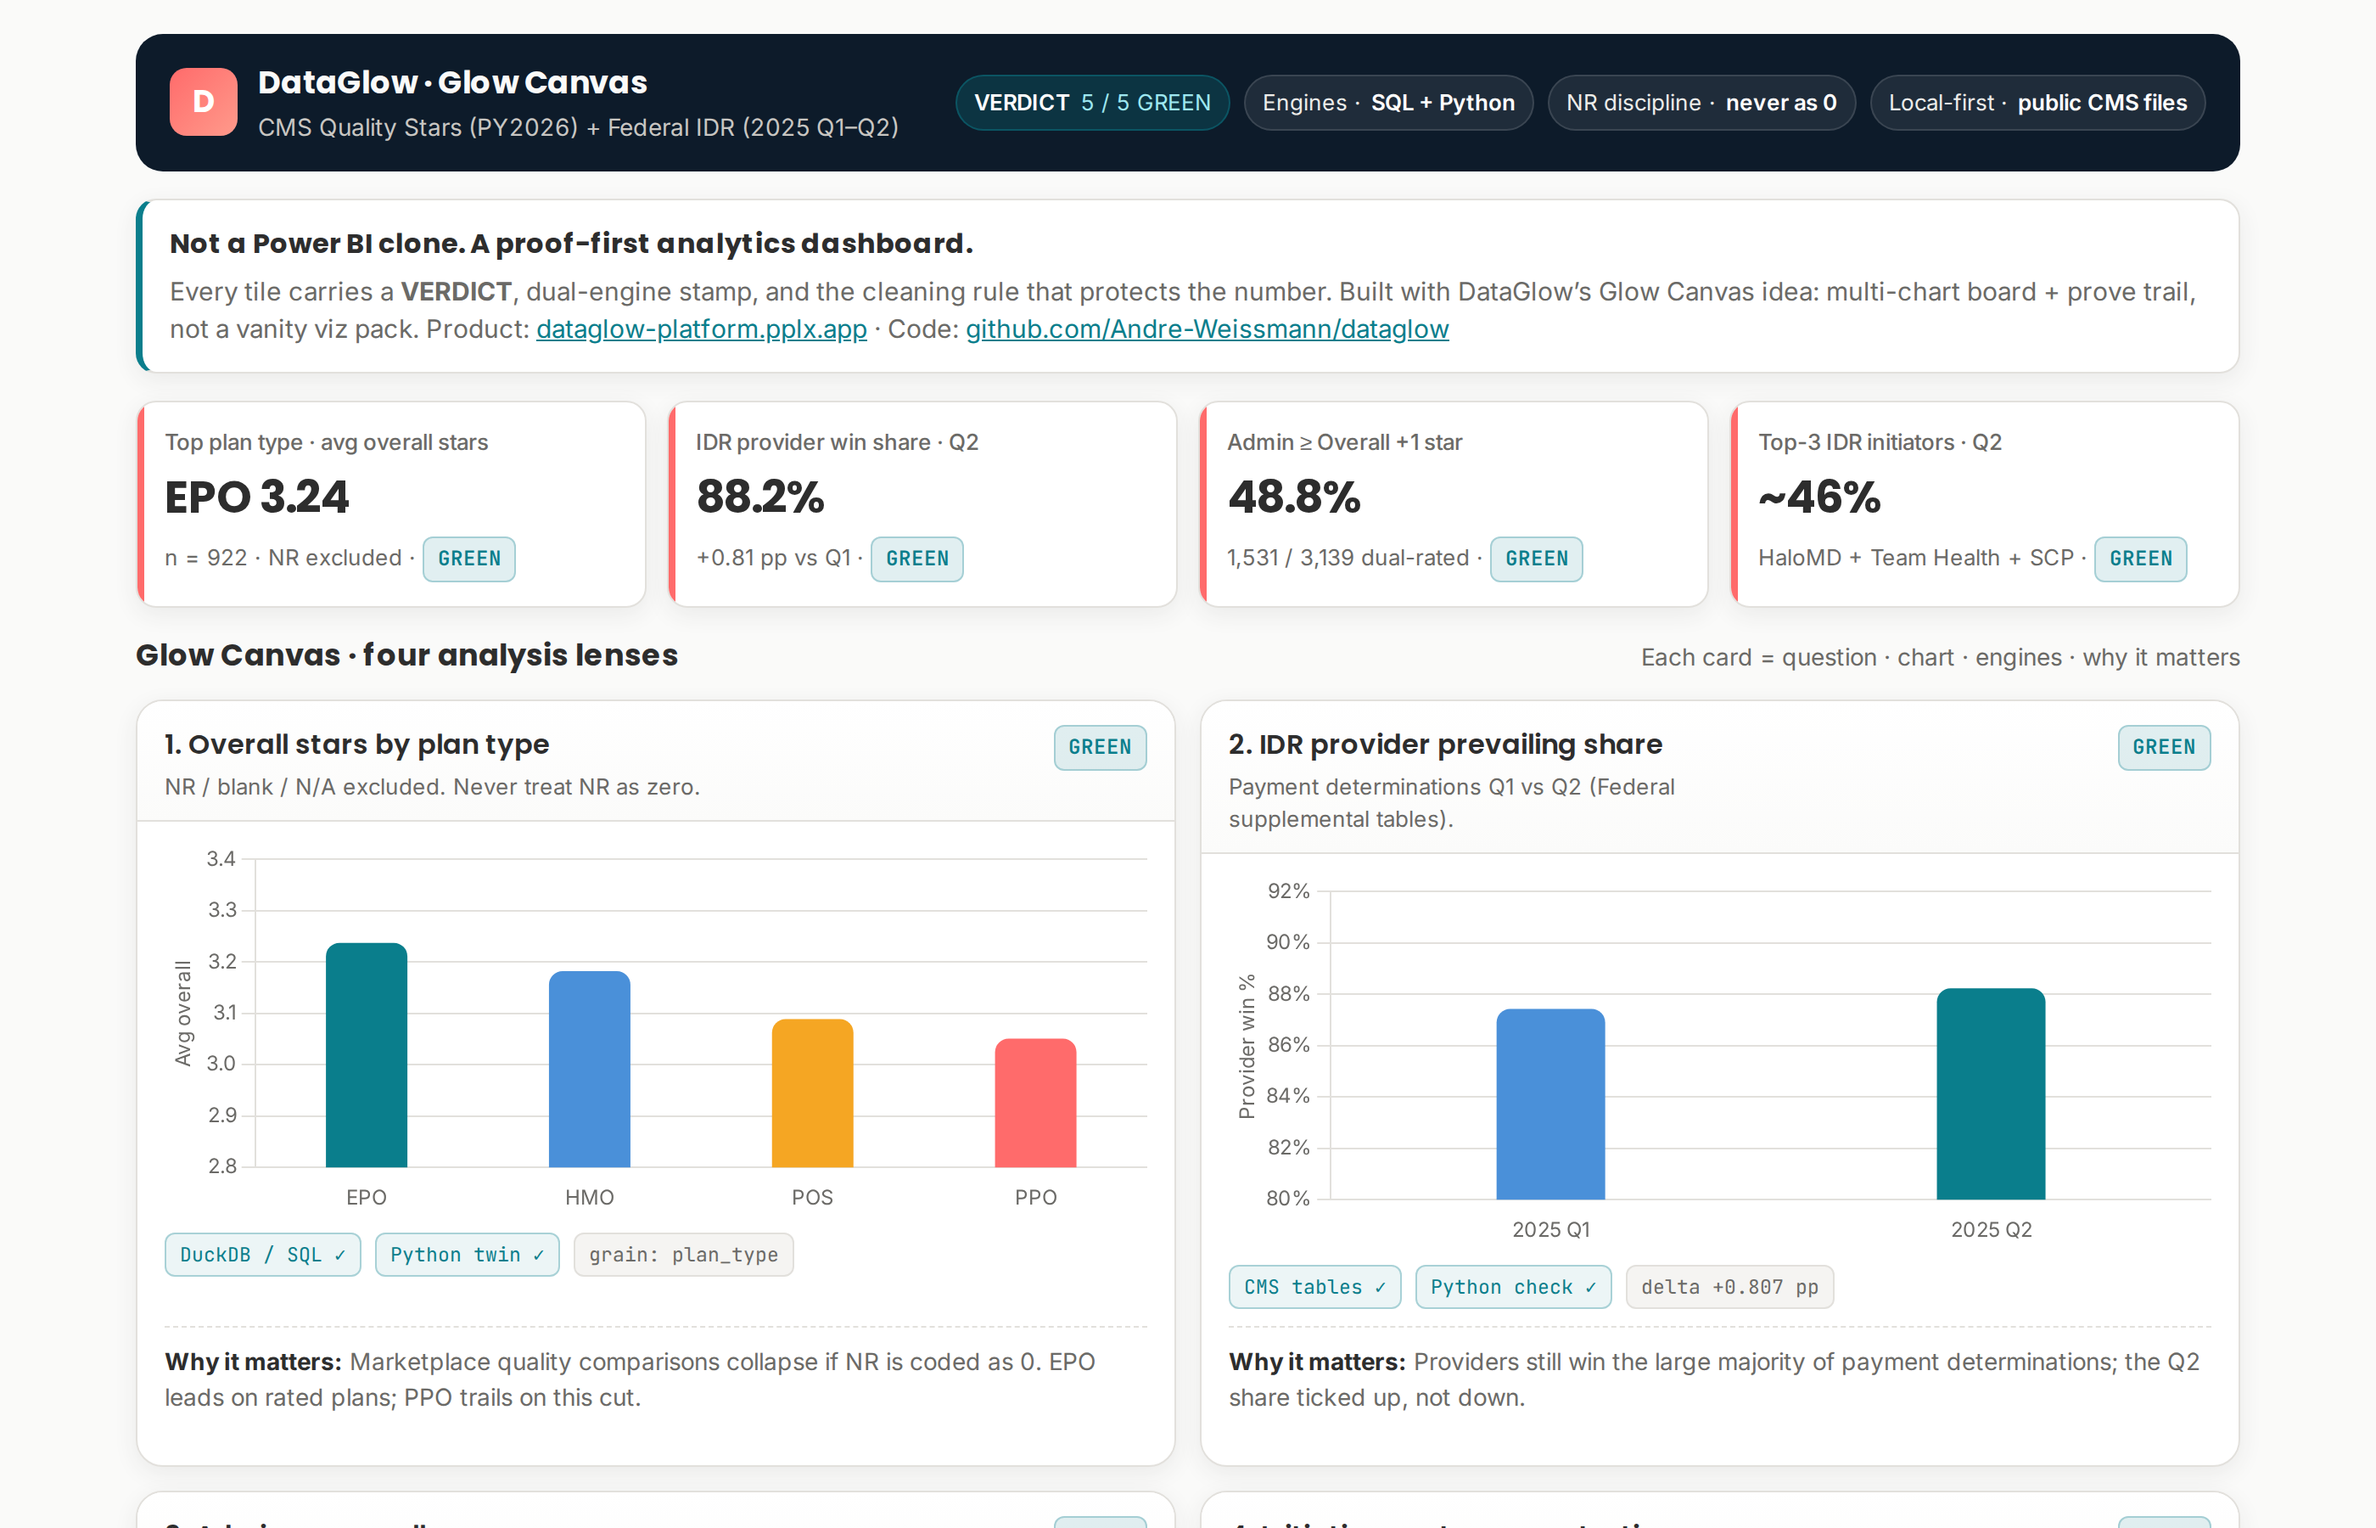
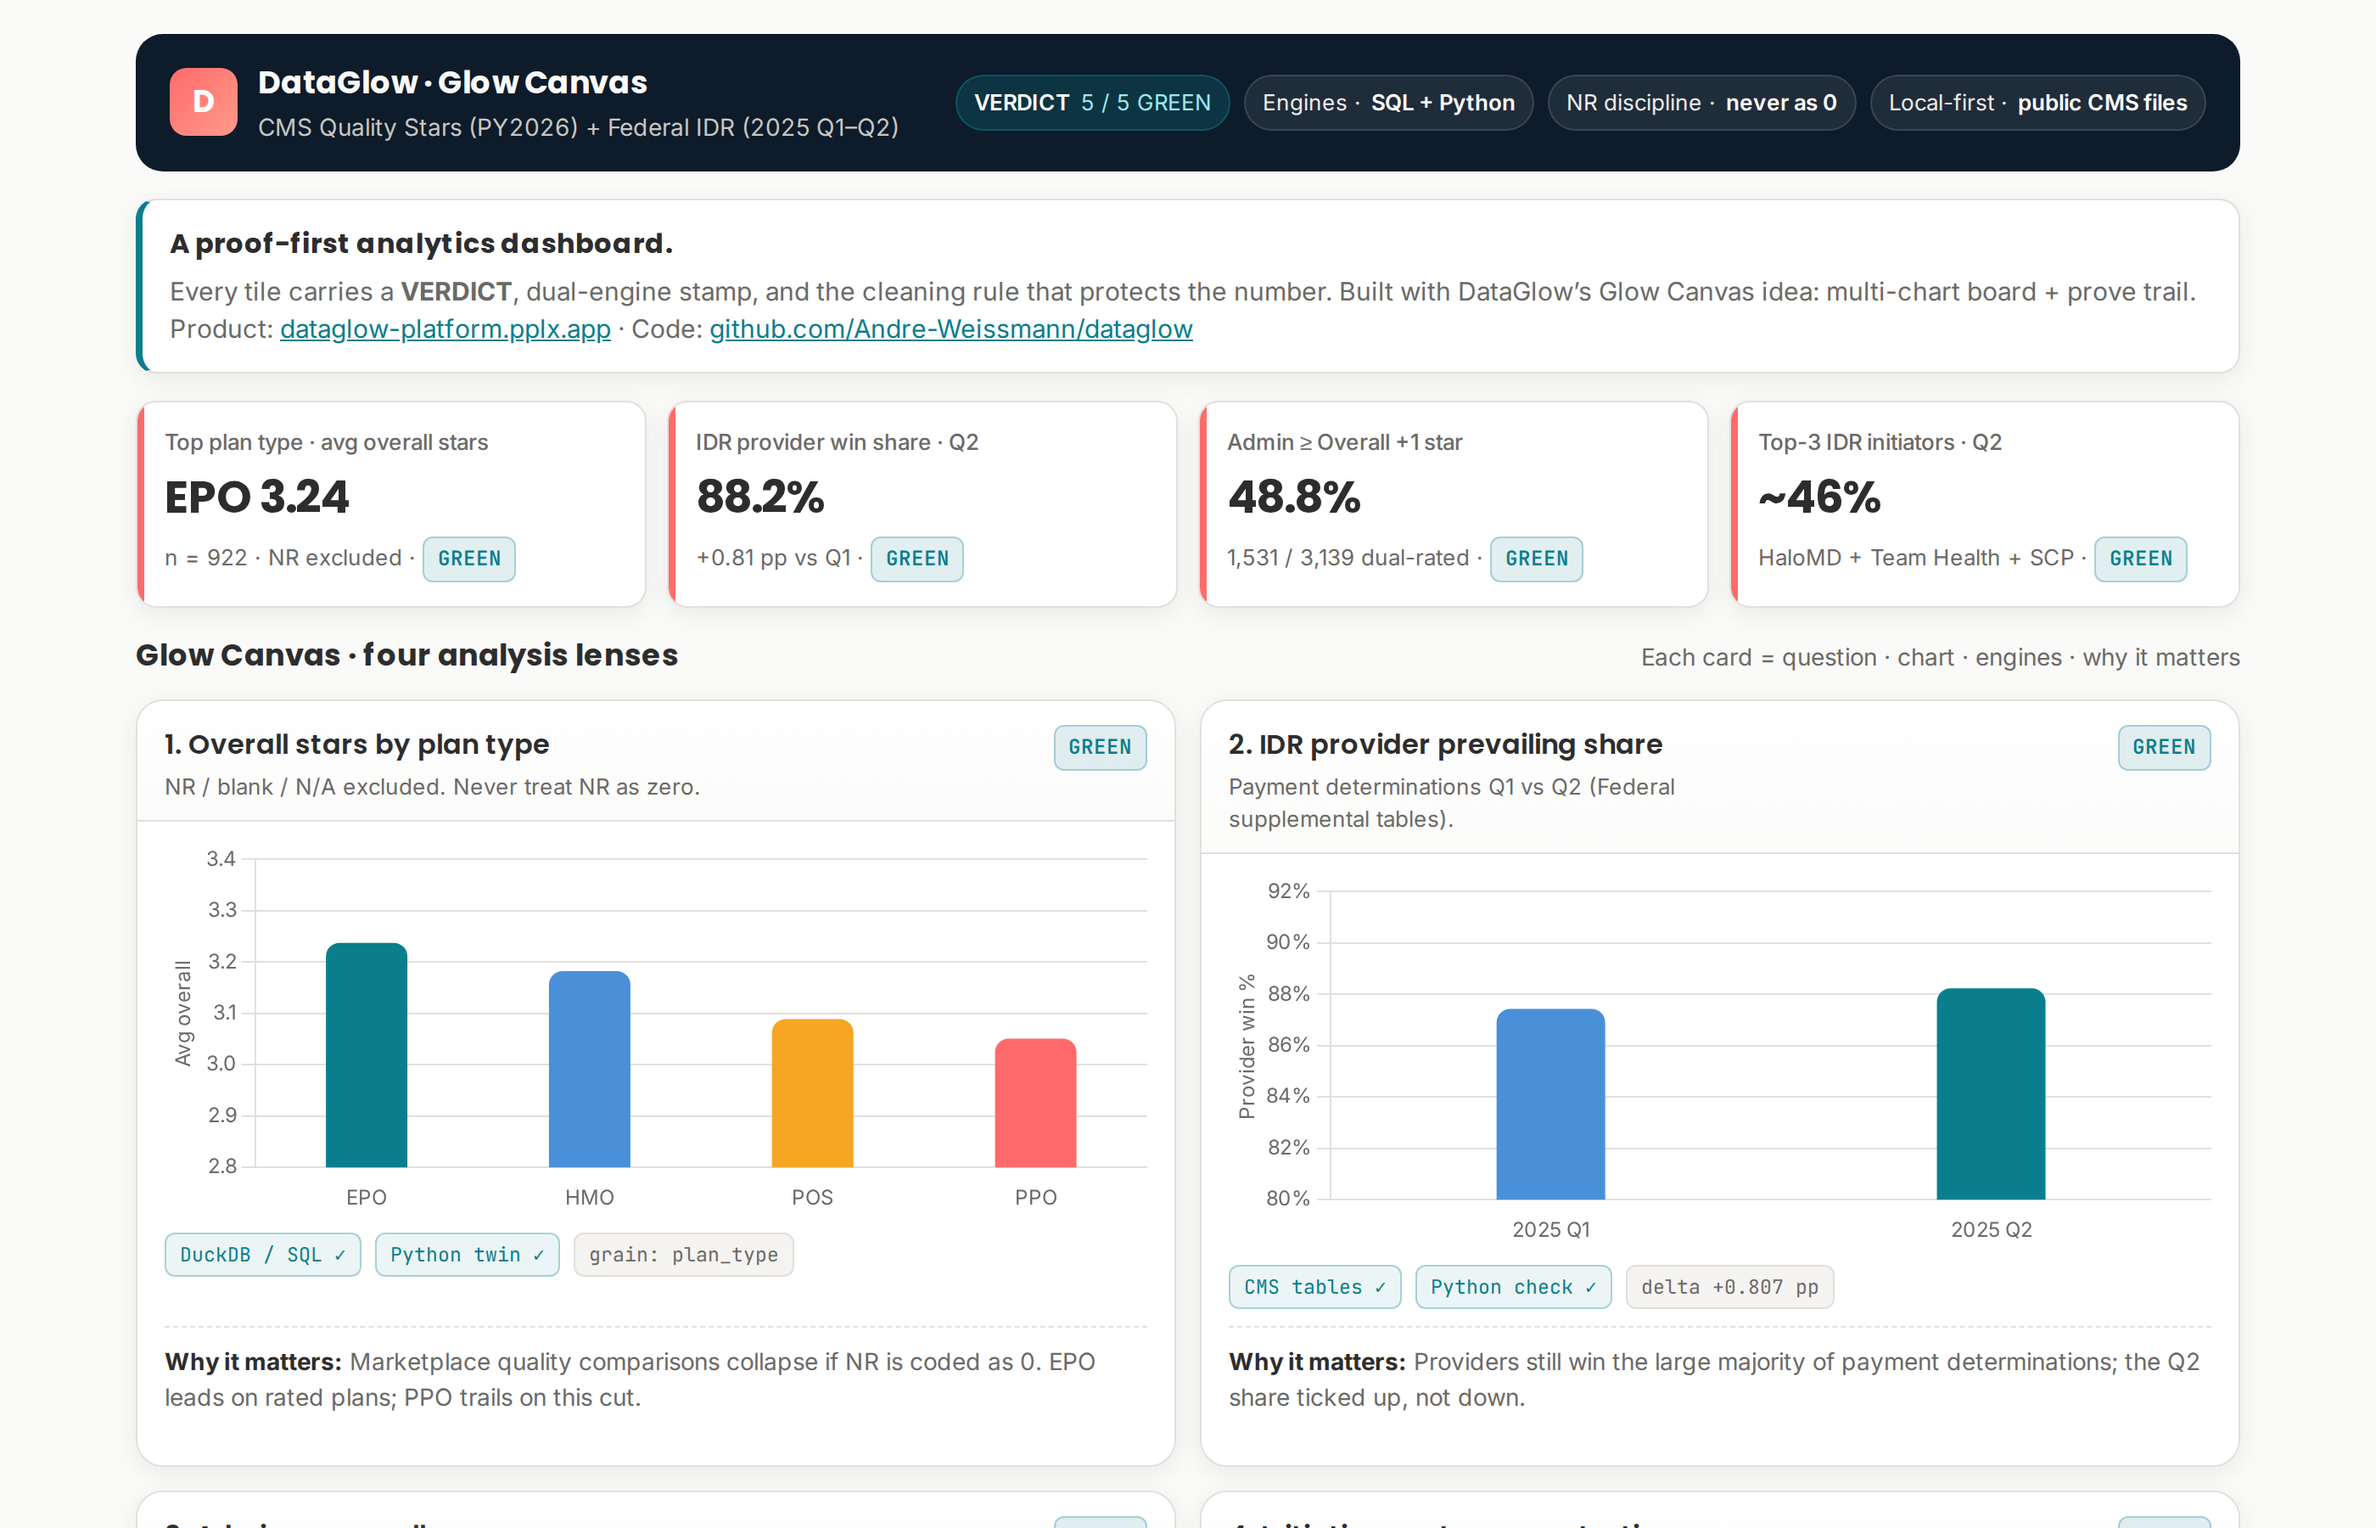
Refresh dashboard screenshots without Power BI clone wording

Changed region(s): [[0.0621, 0.1556, 0.5904, 0.2489]]

diff --git a/client/public/deep_dive_v2.js b/client/public/deep_dive_v2.js
@@ -2996,11 +2996,11 @@ var DD_DASHBOARDS = {
 cmsQualityIdr: {
     tool: 'DataGlow',
     shots: [
-      { src: 'images/dataglow/process/08-dashboard-desktop-top.png?v=1785153000', alt: 'DataGlow Alpha Glow Canvas dashboard top KPIs and VERDICT chips', caption: '1. DataGlow Glow Canvas · headline KPIs + VERDICT bar' },
-      { src: 'images/dataglow/process/10-dashboard-glow-canvas.png?v=1785153000', alt: 'DataGlow multi-chart Glow Canvas with stars and IDR tiles', caption: '2. Multi-chart Glow Canvas · stars + IDR provider wins' },
-      { src: 'images/dataglow/process/11-dashboard-cards-lower.png?v=1785153000', alt: 'Admin gap and initiating concentration dashboard cards', caption: '3. Admin gap + initiating concentration cards' },
-      { src: 'images/dataglow/process/12-dashboard-proof-rail.png?v=1785153000', alt: 'DataGlow proof rail explaining VERDICT dual-engine rules', caption: '4. Proof rail · what makes this a DataGlow dashboard' },
-      { src: 'images/dataglow/process/13-dashboard-mobile-top.png?v=1785153000', alt: 'DataGlow Alpha dashboard on mobile', caption: '5. Mobile · same proof-first dashboard' },
+      { src: 'images/dataglow/process/08-dashboard-desktop-top.png?v=1785162000', alt: 'DataGlow Alpha Glow Canvas dashboard top KPIs and VERDICT chips', caption: '1. DataGlow Glow Canvas · headline KPIs + VERDICT bar' },
+      { src: 'images/dataglow/process/10-dashboard-glow-canvas.png?v=1785162000', alt: 'DataGlow multi-chart Glow Canvas with stars and IDR tiles', caption: '2. Multi-chart Glow Canvas · stars + IDR provider wins' },
+      { src: 'images/dataglow/process/11-dashboard-cards-lower.png?v=1785162000', alt: 'Admin gap and initiating concentration dashboard cards', caption: '3. Admin gap + initiating concentration cards' },
+      { src: 'images/dataglow/process/12-dashboard-proof-rail.png?v=1785162000', alt: 'DataGlow proof rail explaining VERDICT dual-engine rules', caption: '4. Proof rail · what makes this a DataGlow dashboard' },
+      { src: 'images/dataglow/process/13-dashboard-mobile-top.png?v=1785162000', alt: 'DataGlow Alpha dashboard on mobile', caption: '5. Mobile · same proof-first dashboard' },
       { src: 'images/dataglow/process/02-quality-puf-loaded.png?v=1785153000', alt: 'Quality PUF loaded in DataGlow product', caption: '6. Live product path · Quality PUF loaded (4,302 × 9)' },
       { src: 'images/dataglow/process/03-purpose-ready-paths.png?v=1785153000', alt: 'DataGlow Clean Ask Prove paths', caption: '7. Product paths · Clean / Ask / Prove' },
       { src: 'images/dataglow/process/00-live-home-now.png?v=1785153000', alt: 'Live DataGlow home', caption: '8. Live product home · dataglow-platform.pplx.app' }

diff --git a/public/deep_dive_v2.js b/public/deep_dive_v2.js
@@ -2996,11 +2996,11 @@ var DD_DASHBOARDS = {
 cmsQualityIdr: {
     tool: 'DataGlow',
     shots: [
-      { src: 'images/dataglow/process/08-dashboard-desktop-top.png?v=1785153000', alt: 'DataGlow Alpha Glow Canvas dashboard top KPIs and VERDICT chips', caption: '1. DataGlow Glow Canvas · headline KPIs + VERDICT bar' },
-      { src: 'images/dataglow/process/10-dashboard-glow-canvas.png?v=1785153000', alt: 'DataGlow multi-chart Glow Canvas with stars and IDR tiles', caption: '2. Multi-chart Glow Canvas · stars + IDR provider wins' },
-      { src: 'images/dataglow/process/11-dashboard-cards-lower.png?v=1785153000', alt: 'Admin gap and initiating concentration dashboard cards', caption: '3. Admin gap + initiating concentration cards' },
-      { src: 'images/dataglow/process/12-dashboard-proof-rail.png?v=1785153000', alt: 'DataGlow proof rail explaining VERDICT dual-engine rules', caption: '4. Proof rail · what makes this a DataGlow dashboard' },
-      { src: 'images/dataglow/process/13-dashboard-mobile-top.png?v=1785153000', alt: 'DataGlow Alpha dashboard on mobile', caption: '5. Mobile · same proof-first dashboard' },
+      { src: 'images/dataglow/process/08-dashboard-desktop-top.png?v=1785162000', alt: 'DataGlow Alpha Glow Canvas dashboard top KPIs and VERDICT chips', caption: '1. DataGlow Glow Canvas · headline KPIs + VERDICT bar' },
+      { src: 'images/dataglow/process/10-dashboard-glow-canvas.png?v=1785162000', alt: 'DataGlow multi-chart Glow Canvas with stars and IDR tiles', caption: '2. Multi-chart Glow Canvas · stars + IDR provider wins' },
+      { src: 'images/dataglow/process/11-dashboard-cards-lower.png?v=1785162000', alt: 'Admin gap and initiating concentration dashboard cards', caption: '3. Admin gap + initiating concentration cards' },
+      { src: 'images/dataglow/process/12-dashboard-proof-rail.png?v=1785162000', alt: 'DataGlow proof rail explaining VERDICT dual-engine rules', caption: '4. Proof rail · what makes this a DataGlow dashboard' },
+      { src: 'images/dataglow/process/13-dashboard-mobile-top.png?v=1785162000', alt: 'DataGlow Alpha dashboard on mobile', caption: '5. Mobile · same proof-first dashboard' },
       { src: 'images/dataglow/process/02-quality-puf-loaded.png?v=1785153000', alt: 'Quality PUF loaded in DataGlow product', caption: '6. Live product path · Quality PUF loaded (4,302 × 9)' },
       { src: 'images/dataglow/process/03-purpose-ready-paths.png?v=1785153000', alt: 'DataGlow Clean Ask Prove paths', caption: '7. Product paths · Clean / Ask / Prove' },
       { src: 'images/dataglow/process/00-live-home-now.png?v=1785153000', alt: 'Live DataGlow home', caption: '8. Live product home · dataglow-platform.pplx.app' }

diff --git a/client/public/dataglow-alpha-dashboard.html b/client/public/dataglow-alpha-dashboard.html
@@ -164,7 +164,7 @@
       <h2>A proof-first analytics dashboard.</h2>
       <p>
         Every tile carries a <strong>VERDICT</strong>, dual-engine stamp, and the cleaning rule that protects the number.
-        Built with DataGlow’s Glow Canvas idea: multi-chart board + prove trail, not a vanity viz pack.
+        Built with DataGlow’s Glow Canvas idea: multi-chart board + prove trail.
         Product: <a href="https://dataglow-platform.pplx.app" target="_blank" rel="noopener">dataglow-platform.pplx.app</a>
         · Code: <a href="https://github.com/Andre-Weissmann/dataglow" target="_blank" rel="noopener">github.com/Andre-Weissmann/dataglow</a>
       </p>

diff --git a/public/dataglow-alpha-dashboard.html b/public/dataglow-alpha-dashboard.html
@@ -164,7 +164,7 @@
       <h2>A proof-first analytics dashboard.</h2>
       <p>
         Every tile carries a <strong>VERDICT</strong>, dual-engine stamp, and the cleaning rule that protects the number.
-        Built with DataGlow’s Glow Canvas idea: multi-chart board + prove trail, not a vanity viz pack.
+        Built with DataGlow’s Glow Canvas idea: multi-chart board + prove trail.
         Product: <a href="https://dataglow-platform.pplx.app" target="_blank" rel="noopener">dataglow-platform.pplx.app</a>
         · Code: <a href="https://github.com/Andre-Weissmann/dataglow" target="_blank" rel="noopener">github.com/Andre-Weissmann/dataglow</a>
       </p>

diff --git a/client/public/portfolio.html b/client/public/portfolio.html
@@ -1122,7 +1122,7 @@
   <!-- modals.js removed: Deep Dive system lives in portfolio.html directly -->
   <script src="portfolio_os.js?v=1784999000"></script>
   <script src="data_rail.js?v=1784999000"></script>
-  <script src="deep_dive_v2.js?v=1785161000"></script>
+  <script src="deep_dive_v2.js?v=1785162000"></script>
   <script src="powerbi.js?v=1785059000"></script>
   <script src="tableau.js?v=1785046000"></script>
   <script src="excel.js?v=1785046000"></script>

diff --git a/public/portfolio.html b/public/portfolio.html
@@ -1125,7 +1125,7 @@
   <!-- modals.js removed: Deep Dive system lives in portfolio.html directly -->
   <script src="portfolio_os.js?v=1784999000"></script>
   <script src="data_rail.js?v=1784999000"></script>
-  <script src="deep_dive_v2.js?v=1785161000"></script>
+  <script src="deep_dive_v2.js?v=1785162000"></script>
   <script src="powerbi.js?v=1785059000"></script>
   <script src="tableau.js?v=1785046000"></script>
   <script src="excel.js?v=1785046000"></script>
